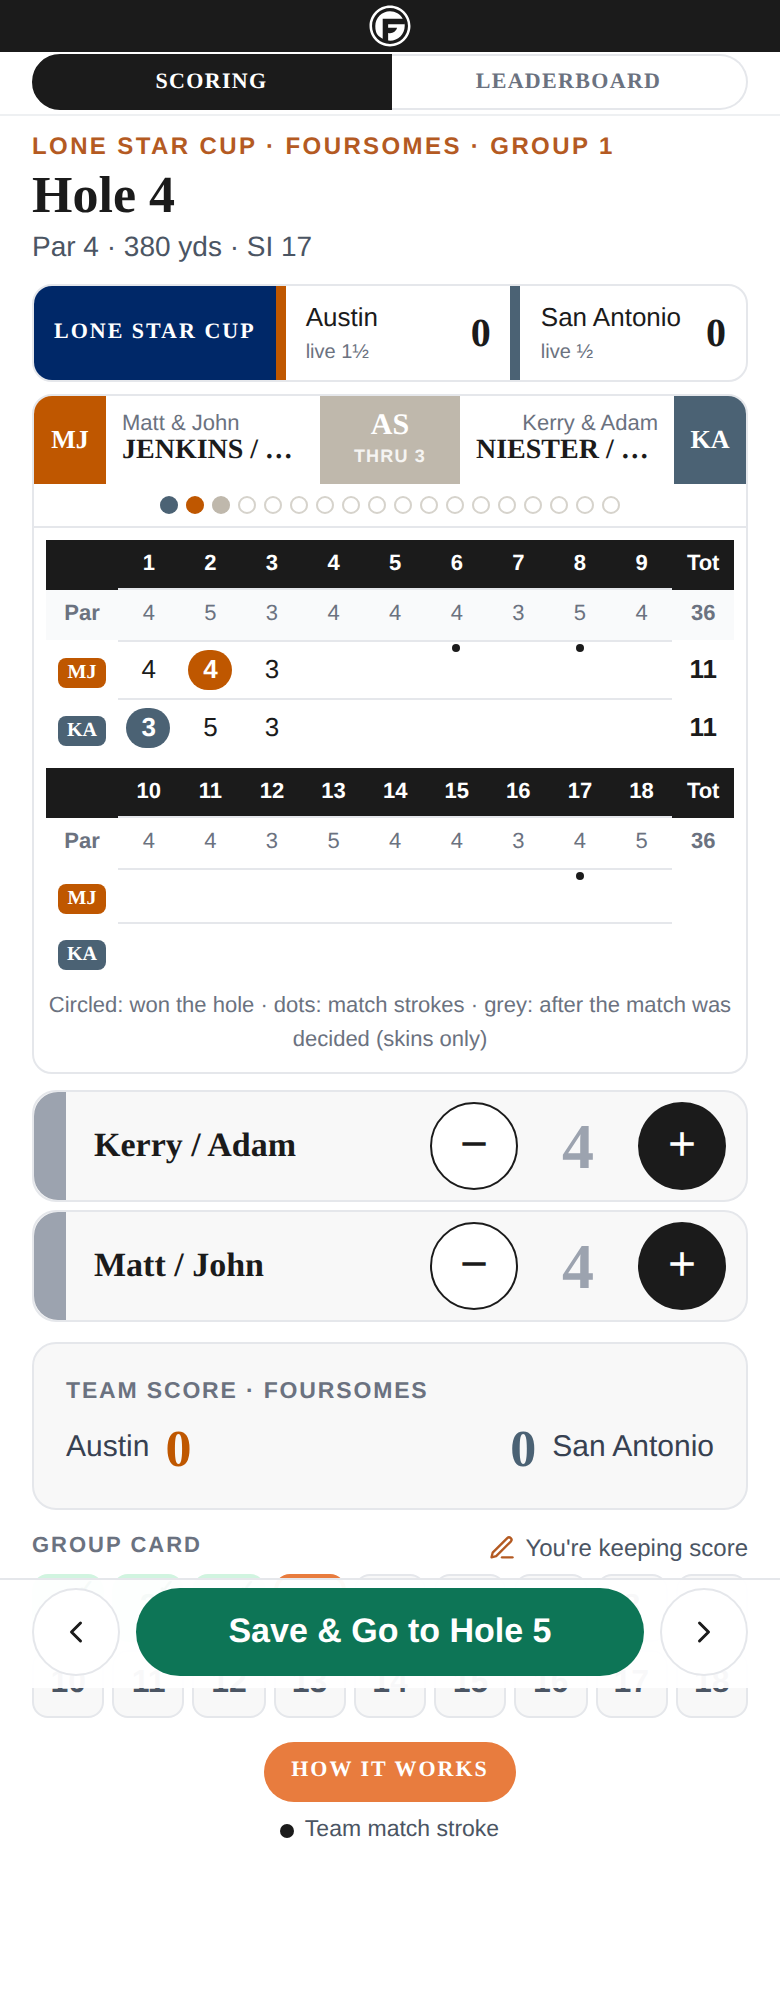
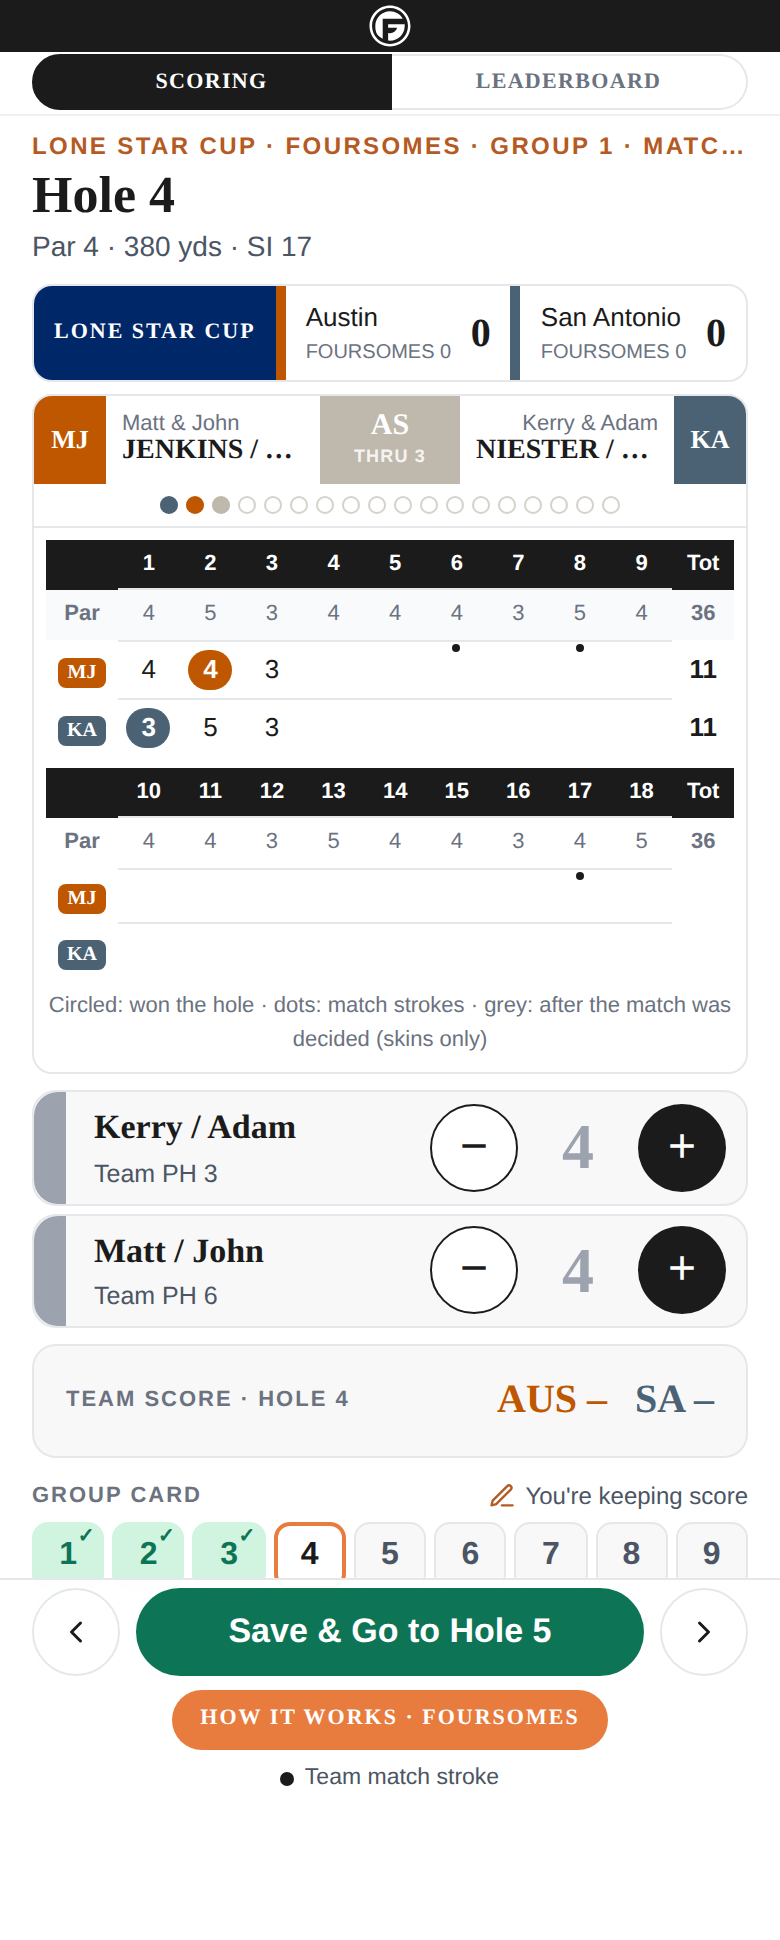
Cup hole screens aligned to the mockups (Main / ScoringFoursomes / ScoringSingles, canvas v29)
The strip's line under each team is this session's points in Kerry's
title ("FOURBALL 2"); the big number stays the overall. One box under
the rows, "Team score · hole N", AUS and SA: four-ball each side's best
net ball from the gross as it goes in, foursomes each pair's one ball
less the team strokes, singles none. A pair's row reads "Team PH n"
(the engine's side handicap, now on the card as side_hcp). The eyebrow
carries "Match N". HOW IT WORKS names the session. Dead CSS removed.
UI test 123, test_cup_signs, test_score_entry pass. Screenshots under
docs/claude/screenshots/lsc-preview/.

Claude-Session: https://claude.ai/code/session_01PeGTnLppc6bpJPrSmUWsVP

diff --git a/transaction-tracker/templates/score_entry.html b/transaction-tracker/templates/score_entry.html
@@ -36,13 +36,17 @@
         .se-pill { height: 56px; border-radius: 48px; font-size: 17px; font-weight: 600; font-family: inherit;
                    width: 100%; cursor: pointer; }
         .se-pill.go { border: none; background: #0d7556; color: #FFFFFF; font-weight: 700; }
-        .se-teamscore { display: grid; grid-template-columns: 1fr 1fr; gap: 6px 10px; margin: 10px 0 2px; padding: 12px 14px; }
-        .se-teamscore .lbl { grid-column: 1 / -1; font-size: 11.5px; font-weight: 700; letter-spacing: .08em; text-transform: uppercase; color: #6B7280; }
-        .se-teamscore .tm { display: flex; align-items: center; gap: 8px; font-size: 15px; color: #374151; }
-        .se-teamscore .tm b { font-family: Bitter, Georgia, serif; font-size: 26px; line-height: 1; font-variant-numeric: tabular-nums; }
-        .se-teamscore .tm.au b { color: #BF5700; }
-        .se-teamscore .tm.sa { justify-content: flex-end; }
-        .se-teamscore .tm.sa b { color: #4B6274; }
+        .se-tscore { display: flex; justify-content: space-between; align-items: center; padding: 8px 14px; margin: 8px 0 2px; }
+        .se-tscore .nums { display: flex; gap: 14px; align-items: baseline; font: 800 20px Bitter, Georgia, serif; }
+        .se-tscore .nums .au { color: #BF5700; } .se-tscore .nums .sa { color: #4B6274; }
+        .se-hiw { margin: 12px 0 2px; text-align: center; }
+        .pr-hiw-link { display: inline-flex; align-items: center; height: 30px; padding: 0 14px; background: #E87C3E; border: none;
+                       border-radius: 9999px; cursor: pointer; color: #fff; text-decoration: none;
+                       font: 700 11px/1 Bitter, Georgia, serif; letter-spacing: 1px; text-transform: uppercase; }
+        .pr-hiw-link:hover { background: #D06B2E; }
+        .se-tscore { display: flex; justify-content: space-between; align-items: center; padding: 8px 14px; margin: 8px 0 2px; }
+        .se-tscore .nums { display: flex; gap: 14px; align-items: baseline; font: 800 20px Bitter, Georgia, serif; }
+        .se-tscore .nums .au { color: #BF5700; } .se-tscore .nums .sa { color: #4B6274; }
         .se-hiw { margin: 12px 0 2px; text-align: center; }
         .pr-hiw-link { display: inline-flex; align-items: center; height: 30px; padding: 0 14px; background: #E87C3E; border: none;
                        border-radius: 9999px; cursor: pointer; color: #fff; text-decoration: none;
@@ -687,7 +691,11 @@
         const maxText = (n) => `Maximum allowed is triple bogey (${hiOf(n)}).`;
         // Kerry 2026-09-26: "Remove the preview text." A PREVIEW round's label
         // is left off the eyebrow (the admin page still marks it PREVIEW).
-        const eyebrow = () => [card.round_label, card.group_num != null ? "Group " + card.group_num : null].filter(Boolean).join(" · ");
+        const matchNos = () => {
+            const ids = (card.match_status || []).filter((m) => m.cup).map((m) => String(m.match_id || "").match(/(\d+)\s*$/)).filter(Boolean).map((x) => x[1]);
+            return ids.length ? (ids.length > 1 ? "Matches " + ids.join(" & ") : "Match " + ids[0]) : null;
+        };
+        const eyebrow = () => [card.round_label, card.group_num != null ? "Group " + card.group_num : null, matchNos()].filter(Boolean).join(" · ");
 
         // ── screens ─────────────────────────────────────────────────────
         function render() {
@@ -832,7 +840,7 @@
                 // already obvious who I'm playing because of the above matches,
                 // so vs [Name] doesn't need to be there"; no format prose on a
                 // scoring screen, so a pair's row carries no "Team · one ball").
-                const meta2 = [s.team ? null : (teeOf(s.cid).name || "").replace(/\s*Tees?$/i, "") || null,
+                const meta2 = [s.team ? teamPh(s.cids) : (teeOf(s.cid).name || "").replace(/\s*Tees?$/i, "") || null,
                                !s.team && s.ph != null ? "PH " + s.ph : null].filter(Boolean).join(" · ");
                 return `<div class="se-row" data-key="${s.key}">${teeBar(s.cids)}
                     <div class="se-who"><div class="se-name"><span class="nm">${esc(s.name)}</span>${mtag(s.cids)}</div><div class="se-meta">${esc(meta2)}</div></div>
@@ -855,8 +863,7 @@
                 ${hio}
                 ${maxNote ? `<div class="se-warn">${ICON.warn}<span>${esc(maxNote)}</span></div>` : ""}
                 <div class="se-stack">${rows}</div>
-                ${teamBallLine(hole)}
-                ${teamScoreBox()}
+                ${teamScoreBox(hole)}
                 <div class="se-lblrow"><span class="se-lbl">Group card</span><span class="se-keepnote">${ICON.pen}<span>You're keeping score</span></span></div>
                 <div class="se-strip" style="margin-top:6px;grid-template-columns:repeat(${Math.min(order.length, 9)}, minmax(0, 1fr))">${cells}</div>
                 ${hiwPill()}
@@ -869,34 +876,6 @@
                 </div></div></div>`;
         }
 
-        // FOUR-BALL: what each side's team ball would be on this hole, from
-        // the two gross scores as they go in (Kerry 2026-10-07, #1351 D2:
-        // "slots for both players to enter raw gross scores, or X's if
-        // player B picked up, but then the visual of what their team score
-        // would be"). Net = gross less the player's own match strokes on the
-        // hole, from the match engine's allocation the card carries
-        // (match_status[].strokes); an X never counts; the lower net is the
-        // ball. Nothing is guessed: a partner with no score yet shows as such.
-        function teamBallLine(n) {
-            const fb = (card.match_status || []).filter((m) => m.format === "fourball" && m.sides.some((sd) => sd.length === 2));
-            if (!fb.length) return "";
-            const sides = fb.map((m) => m.sides.map((sd, k) => {
-                const balls = sd.map((cid) => {
-                    const key = "c:" + cid, cur = key in draft ? {v: draft[key]} : value(key, n);
-                    const x = key in draftX ? draftX[key] : isX(key, n, [cid]);
-                    const st = ((m.strokes || {})[String(cid)] || {})[String(n)] || 0;
-                    return {cid, v: cur.v, x, net: cur.v == null || x ? null : cur.v - st, st};
-                });
-                const live = balls.filter((b_) => b_.net != null);
-                const best = live.length ? live.reduce((a, b_) => (b_.net < a.net ? b_ : a)) : null;
-                const names = sd.map((cid) => first(byId(cid).display_name) || "#" + cid).join(" & ");
-                const txt = best ? `${best.net}${best.st ? " net" : ""} <span class="se-tb-who">${esc(first(byId(best.cid).display_name) || "")}</span>`
-                          : balls.every((b_) => b_.x) ? "X" : "–";
-                return `<div class="se-tb-side ${k === 0 ? "au" : "sa"}"><span class="se-tb-nm">${esc(names)}</span><b>${txt}</b></div>`;
-            }).join(""));
-            return `<div class="se-teamball"><span class="se-tb-lbl">Team ball · hole ${n}</span>${sides.join("")}</div>`;
-        }
-
         // The Cup session this round is bound to, in Kerry's words (#1397-1:
         // FOURBALL, FOURSOMES, SINGLES; "Chapman" only describes the format).
         function cupSession() {
@@ -906,16 +885,43 @@
             const title = f === "fourball" ? "FOURBALL" : (f === "singles" ? "SINGLES" : "FOURSOMES");
             return {title, anchor: title.toLowerCase(), cs};
         }
-        // TEAM SCORE box under the rows: the label and the two numbers, this
-        // session's points (Kerry 2026-10-07, #1398-C1; the strip above keeps
-        // the overall). Nothing else goes in it.
-        function teamScoreBox() {
-            const sx = cupSession();
-            if (!sx) return "";
-            const half = (x) => { const w = Math.floor(x), f = x - w; return (w || f === 0 ? String(w) : "") + (f >= 0.5 ? "½" : ""); };
-            return `<div class="se-box se-teamscore"><span class="lbl">Team score · ${sx.title}</span>
-                <span class="tm au"><span>Austin</span><b>${half(sx.cs.session_austin || 0)}</b></span>
-                <span class="tm sa"><b>${half(sx.cs.session_sa || 0)}</b><span>San Antonio</span></span></div>`;
+        // TEAM SCORE · HOLE N (mockup Main / ScoringFoursomes; Kerry #1351 D2
+        // "the visual of what their team score would be", #1398-C1: the box
+        // carries the label and the two numbers, nothing else). FOURBALL: each
+        // side's best net ball on this hole from the gross scores as they go
+        // in, net = gross less that player's own match strokes on the hole
+        // (the engine's allocation, match_status[].strokes); an X never
+        // counts. FOURSOMES: each pair's one ball less the team's strokes.
+        // SINGLES: no box. A side with no score yet shows "–".
+        function teamScoreBox(n) {
+            const m = (card.match_status || []).find((x) => x.format === "fourball" || x.format === "chapman" || x.format === "foursomes");
+            if (!m) return "";
+            const subs = subjects();
+            const sideNet = (sd, k) => {
+                const balls = [];
+                if (m.format === "fourball") {
+                    sd.forEach((cid) => {
+                        const key = "c:" + cid, cur = key in draft ? {v: draft[key]} : value(key, n);
+                        const x = key in draftX ? draftX[key] : isX(key, n, [cid]);
+                        const st = ((m.strokes || {})[String(cid)] || {})[String(n)] || 0;
+                        balls.push({v: cur.v, x, net: cur.v == null || x ? null : cur.v - st});
+                    });
+                } else {
+                    const sub = subs.find((s_) => s_.cids.length === 2 && sd.every((c) => s_.cids.includes(c))) || subs.find((s_) => sd.includes(s_.cids[0]));
+                    if (sub) {
+                        const cur = sub.key in draft ? {v: draft[sub.key]} : value(sub.key, n);
+                        const x = sub.key in draftX ? draftX[sub.key] : isX(sub.key, n, sub.cids);
+                        const st = ((m.strokes || {})[String(sd[0])] || {})[String(n)] || 0;
+                        balls.push({v: cur.v, x, net: cur.v == null || x ? null : cur.v - st});
+                    }
+                }
+                const live = balls.filter((b_) => b_.net != null);
+                if (live.length) return String(Math.min(...live.map((b_) => b_.net)));
+                return balls.length && balls.every((b_) => b_.x) ? "X" : "–";
+            };
+            const aus = sideNet(m.sides[0], 0), sa = sideNet(m.sides[1], 1);
+            return `<div class="se-box se-tscore"><div class="se-lbl">Team score · hole ${n}</div>
+                <div class="nums"><span class="au">AUS ${aus}</span><span class="sa">SA ${sa}</span></div></div>`;
         }
         // HOW IT WORKS, one tap from the scoring screen (Kerry 2026-10-07,
         // #1398-C2: "I do like the HOW IT WORKS buttons being immediately
@@ -924,7 +930,18 @@
         function hiwPill() {
             const sx = cupSession();
             if (!sx) return "";
-            return `<div class="se-hiw"><a class="pr-hiw-link" href="/member/lonestarcup/info#${sx.anchor}">How It Works</a></div>`;
+            return `<div class="se-hiw"><a class="pr-hiw-link" href="/member/lonestarcup/info#${sx.anchor}">How it works · ${sx.title}</a></div>`;
+        }
+
+        // A pair's row carries the TEAM's handicap after the session allowance
+        // (mockup ScoringFoursomes "Team PH 9"), from the engine's side_hcp.
+        function teamPh(cids) {
+            const key = cids.slice().sort((a, b) => a - b).join(",");
+            for (const m of card.match_status || []) {
+                const k = m.sides.findIndex((sd) => sd.slice().sort((a, b) => a - b).join(",") === key);
+                if (k >= 0 && m.side_hcp && m.side_hcp[k] != null && !Array.isArray(m.side_hcp[k])) return "Team PH " + m.side_hcp[k];
+            }
+            return null;
         }
 
         function stripCells(order, current) {
@@ -954,9 +971,13 @@
             if (!ms.length) return "";
             const half = (x) => { const w = Math.floor(x), f = x - w; return (w || f === 0 ? String(w) : "") + (f >= 0.5 ? "½" : ""); };
             const cs = card.cup_standings;
+            // Under each team: THIS SESSION's points in Kerry's title (mockup
+            // Main: "Fourball 2"); the big number is the overall. No "live".
+            const sx = cupSession();
+            const sub = (k) => sx ? `${sx.title} ${half(cs["session_" + k] || 0)}` : `live ${half(cs[k + "_projected"])}`;
             const cup = cs ? `${cs.preview ? '<div class="se-warn se-demo">PREVIEW · demo scores</div>' : ""}<div class="se-cup"><span class="lbl">Lone Star Cup</span>
-                <span class="tm aus"><span>Austin<span class="proj">live ${half(cs.austin_projected)}</span></span><b>${half(cs.austin)}</b></span>
-                <span class="tm sa"><span>San Antonio<span class="proj">live ${half(cs.sa_projected)}</span></span><b>${half(cs.sa)}</b></span></div>` : "";
+                <span class="tm aus"><span>Austin<span class="proj">${sub("austin")}</span></span><b>${half(cs.austin)}</b></span>
+                <span class="tm sa"><span>San Antonio<span class="proj">${sub("sa")}</span></span><b>${half(cs.sa)}</b></span></div>` : "";
             return `<div class="se-mstrip">${cup}${ms.map(matchCard).join("")}</div>`;
         }
         // THE STANDARD MATCH VIEW (Kerry 2026-09-26: "like the other match play

diff --git a/transaction-tracker/test_cup_signs.py b/transaction-tracker/test_cup_signs.py
@@ -111,9 +111,9 @@ check("the phone page lands on the two buttons before Who are you?",
       and 'if (!who && !store.get(K.gate, false)) body = gateScreen();' in tpl)
 check("FOLLOW THE CUP opens the Cup board with the match expanded; a plain event opens the one-event board",
       '/member/lonestarcup?match=' in tpl and '/member/score/board?t=' in tpl)
-check("the hole screen carries the Team Score box (label + two numbers) and the HOW IT WORKS pill (#1398-C1/C2)",
-      "function teamScoreBox()" in tpl and 'class="se-box se-teamscore"' in tpl and "pr-hiw-link" in tpl
-      and "/member/lonestarcup/info#" in tpl)
+check("the hole screen carries the Team score · hole box (label + two numbers) and the HOW IT WORKS pill (#1398-C1/C2)",
+      "function teamScoreBox(n)" in tpl and 'class="se-box se-tscore"' in tpl and "pr-hiw-link" in tpl
+      and "/member/lonestarcup/info#" in tpl and "Team PH " in tpl)
 check("player rows carry name + tee + PH only: no 'vs' and no 'Team · one ball' on the hole screen",
       'replace(/^Match vs/, "vs")' not in tpl and "s.team ? s.meta : null" not in tpl)
 check("session titles are FOURBALL / FOURSOMES / SINGLES (#1397-1)",

diff --git a/transaction-tracker/email_parser/score_entry.py b/transaction-tracker/email_parser/score_entry.py
@@ -457,6 +457,9 @@ def _match_status(conn, g) -> list:
                     # four-ball hole screen shows what the team ball would be
                     # as both partners' gross go in)
                     "strokes": d.get("strokes") or {},
+                    # what each side plays off after the session allowance
+                    # (a Chapman pair's one number; the mockup's "Team PH 9")
+                    "side_hcp": [pl.get("handicap") for pl in (d.get("players") or [])],
                     "card": [{"hole": h["hole"], "order": h.get("order"), "w": h["winner"],
                               "g": [h.get("p1_gross"), h.get("p2_gross")],
                               "s": [h.get("p1_strokes") or 0, h.get("p2_strokes") or 0],
